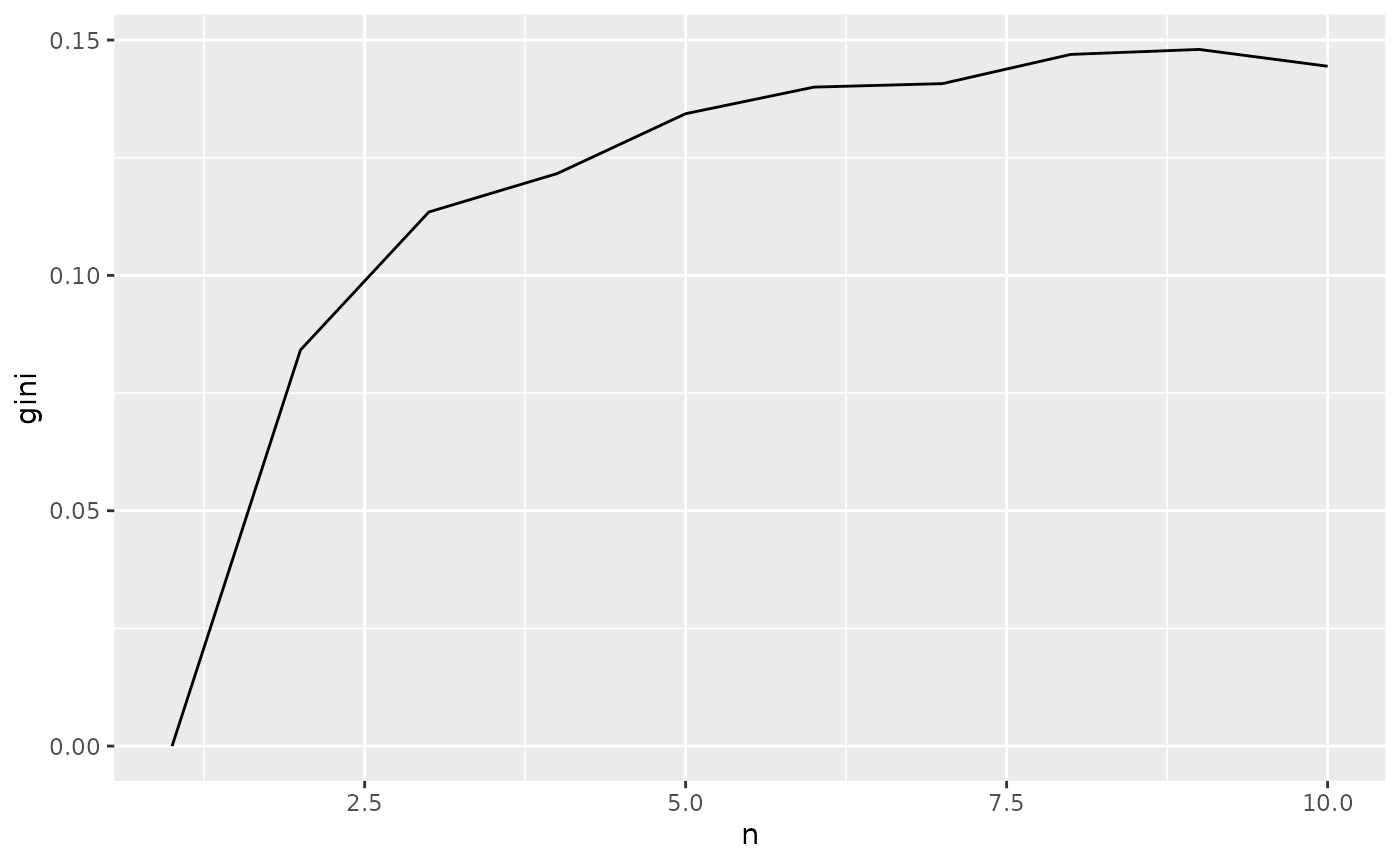
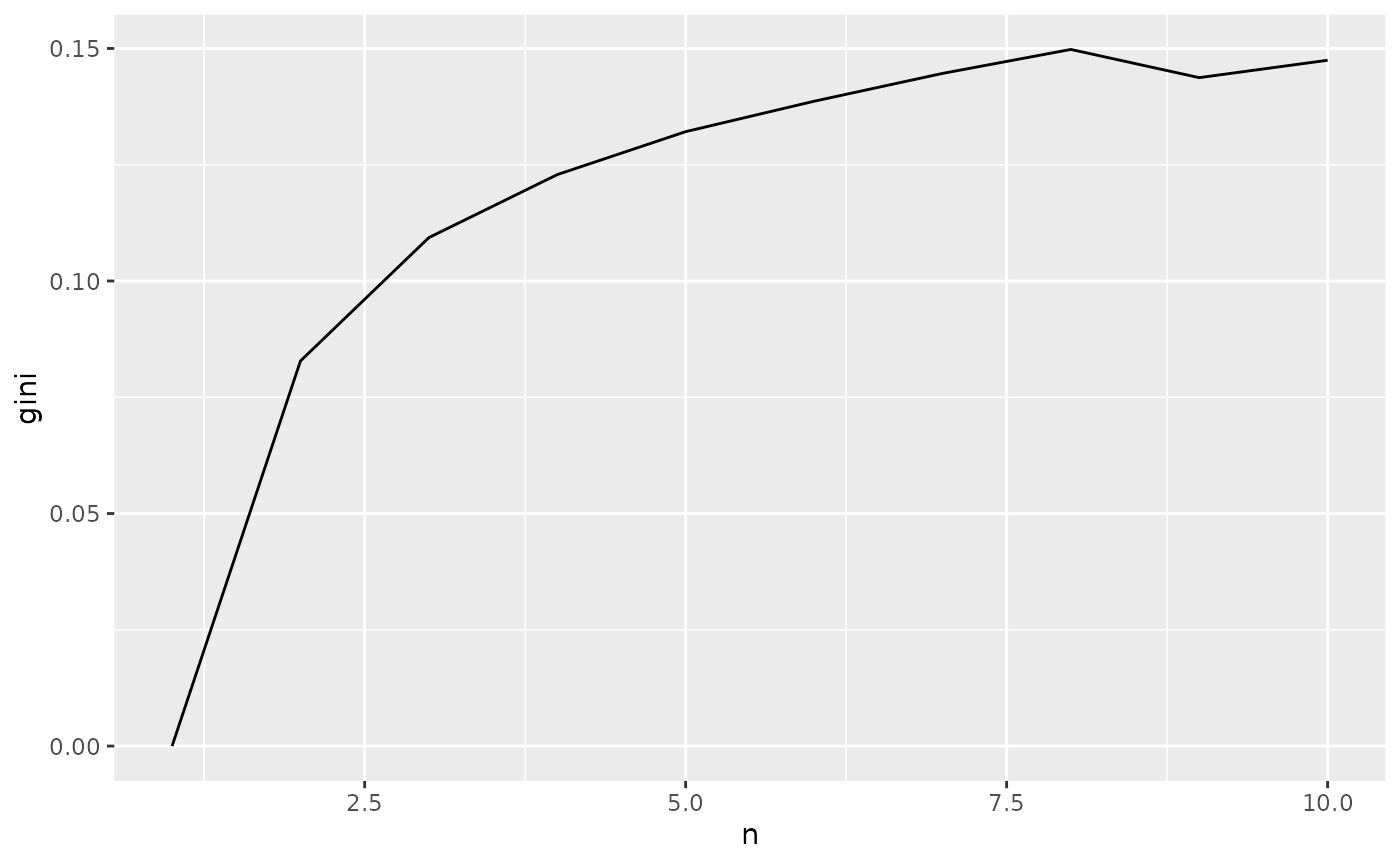
Deploying to gh-pages from @ mpadge/pkgstats-analyses@e07d422336419b5bfa9cda3566c8a8e84b8b9a2a 🚀

diff --git a/articles/pkgstats.html b/articles/pkgstats.html
@@ -26,7 +26,7 @@
     
     <a class="navbar-brand me-2" href="../index.html">pkgstatsAnalyses</a>
 
-    <small class="nav-text text-muted me-auto" data-bs-toggle="tooltip" data-bs-placement="bottom" title="">0.0.1.157</small>
+    <small class="nav-text text-muted me-auto" data-bs-toggle="tooltip" data-bs-placement="bottom" title="">0.0.1.158</small>
 
     
     <button class="navbar-toggler" type="button" data-bs-toggle="collapse" data-bs-target="#navbar" aria-controls="navbar" aria-expanded="false" aria-label="Toggle navigation">
@@ -68,7 +68,7 @@
       <img src="" class="logo" alt=""><h1>Historical Trends in R Package Structure and Interdependency on CRAN</h1>
                         <h4 data-toc-skip class="author">Mark Padgham &amp; Noam Ross</h4>
             
-            <h4 data-toc-skip class="date">2022-01-31</h4>
+            <h4 data-toc-skip class="date">2022-02-01</h4>
       
       <small class="dont-index">Source: <a href="https://github.com/mpadge/pkgstats-analyses/blob/HEAD/vignettes/pkgstats.Rmd" class="external-link"><code>vignettes/pkgstats.Rmd</code></a></small>
       <div class="d-none name"><code>pkgstats.Rmd</code></div>
@@ -395,8 +395,16 @@ Fig 8 but over package release instead of year
 <div class="section level2">
 <h2 id="discussion">Discussion<a class="anchor" aria-label="anchor" href="#discussion"></a>
 </h2>
-<p>These results reveal a number of metrics which appear to have evolved in one direction when collectively measured across all CRAN packages, yet which tend to evolve in opposing directions within the evolution of individual packages. An example is the metric of “coupling instability” which has increased markedly for all packages since around 2010 (Fig. 6B), yet which decreases in any individual package from near one on first release (due to new packages being unable to be used or depended on by other packages) to near zero after around 100 releases. Additional examples arose in proportions of calls to base R functions, which have collectively decreased over time (Fig. 6A), from over 80 to under 70%, while calls to contributed packages have collectively increased from under 1% to almost 15% in 2021. While individual packages tend to use proportionally fewer calls to base R functions as they mature, they also use proportionally fewer calls to contributed packages, and substitute both of these with increasing proportions of calls to recommended packages (Fig. 7A). Simpler examples also arise in variables like numbers of R functions per file, which have decreased consistently over CRAN as a whole (Fig. 4D), yet which increase progressively as individual packages mature.</p>
-<p>These general patterns indicate the ubiquity of a dual dynamic between CRAN becoming collectively dominated by less mature packages, and so manifesting statistic properties increasingly reflective of packages in relatively preliminary states of development, while individual packages themselves generally manifest opposing tendencies. It is not straightforward for many metrics considered here to determine whether a given observed trajectory might be a positive development for CRAN as a whole or not, yet the example of coupling instability does provide one metric with a clear understating, and for which high values are generally considered undesirable <span class="citation">(Martin 2003)</span>.</p>
+<p>These results reveal a number of metrics which appear to have evolved in one direction when collectively measured across all CRAN packages, yet which tend to evolve in opposing directions within the evolution of individual packages. An example is the metric of “coupling instability” which has increased markedly for all packages since around 2010 (Fig. 6B), yet which decreases in any individual package from near one on first release (due to new packages being unable to be used or depended on by other packages) to near zero after around 100 releases. Additional examples arose in proportions of calls to base R functions, which have collectively decreased over time (Fig. 6A), from over 80 to under 70%, while calls to contributed packages have collectively increased from under 1% to almost 15% in 2021. While individual packages tend to use proportionally fewer calls to base R functions as they mature, they also use proportionally fewer calls to contributed packages, and substitute both of these with increasing proportions of calls to recommended packages (Fig. 7A). Simpler examples also arise in variables like numbers of R functions per file, which have decreased consistently over CRAN as a whole (Fig. 4D), yet which increase progressively as individual packages mature (Fig. 5D).</p>
+<p>These general patterns indicate the ubiquity of a dual dynamic between individual packages tending to develop or evolve in one particular direction, yet CRAN as a whole collectively developing in opposing directions due to becoming increasingly dominated by less mature packages in relatively preliminary states of development. It is of course generally not straightforward for many metrics considered here to determine whether an observed trajectory might be a positive development for CRAN as a whole or not. The example of coupling instability nevertheless provides one metric with a clear understanding, and for which high values are generally considered undesirable <span class="citation">(Martin 2003)</span>. In this context at least, the ongoing development of CRAN is defined by a dynamic balance between the stabilising influence of mature packages, and converse and potentially destabilising influences of increasing numbers of recently contributed packages.</p>
+<p>However, even balances between variables like these which are relatively easy to interpret must be considered carefully. For example, the preceding results made several comparisons through quantifying relative rates of change of such opposing tendencies. Direct comparisons presume more recent packages to have equal weight or influence on the overall system dynamic as do more mature packages. It may be more appropriate to implement some form of weighted analyses, for example, through weighting the contributions of individual packages by numbers of dependent packages. Although such analyses lie beyond the scope of the present work, the evident tensions between individual and collective dynamics represent a key finding of the present work, and one which could and should be extended in future analyses through considering such additional influences as weighted contributions of individual packages to the collective development of software systems.</p>
+<div class="section level3">
+<h3 id="quantifying-temporal-development-of-software-systems">Quantifying temporal development of software systems<a class="anchor" aria-label="anchor" href="#quantifying-temporal-development-of-software-systems"></a>
+</h3>
+<p>The preceding analyses contrasted and compared results derived from two distinct ways of quantifying “annual” statistics. The “snapshot” values considered the collective properties of the system as it existed in each year, including latest versions of all packages regardless of when those packages were last updated. In contrast, “annual” values only considered software actively uploaded in each year. As stated at the outset, snapshot values may be generally presumed to reflect exponentially-smoothed versions of annual values, and so these two approaches to aggregating annual values ought to qualitatively agree, with snapshots merely being an effectively smoothed version of annual values. Such an assertion can nevertheless never be more than a generalisation, and the particular statistical properties of a system may manifest different patterns.</p>
+<p>Such contrasting patterns arose in the annual developments of Gini coefficients of Fig. 6C, which presented coefficients both for inequality between numbers of package dependencies, and numbers of individual functions from those dependencies. Calculating annual values only from software uploaded in each year (“annual” values; solid lines in that figure) yielded Gini coefficients which have progressively decreased over the last two decades, while using “snapshot” values produced opposing trajectories of increasing Gini coefficients (dashed lines).</p>
+<p><span class="citation">Decan, Mens, and Grosjean (2019)</span> previously claimed that Gini coefficients for all seven package distribution systems they studied had increased over time. These coefficients measure relative inequality in the distributions of numbers of package imports, with larger values reflecting systems with greater disparities between packages in numbers of imports. While <span class="citation">Decan, Mens, and Grosjean (2019)</span> did not explicitly describe how they defined their annual figures, all data were derived from the “meta-platform” <code>libraries.io</code>, which collates software from several distribution systems and computer languages. Use of data from this platform would only enable “annual” rather than “snapshot” values to be calculated. The present results then appear to contradict theirs, through revealing annual Gini coefficients to have decreased over the preceding two decades, rather than increasing as they concluded (albeit in their case over a more narrow temporal range of 2012-2017). Quantifying annual values as snapshots of the entire system, including latest versions from all prior years, led to opposing trajectories of increasing Gini coefficients. These conflicting patterns prevent any firm conclusions regarding temporal evolution of Gini coefficients, but do reveal the critical importance of precisely specifying the methods used to aggregate annual values.</p>
+</div>
 <div class="section level3">
 <h3 id="dependency-networks">Dependency Networks<a class="anchor" aria-label="anchor" href="#dependency-networks"></a>
 </h3>

diff --git a/authors.html b/authors.html
@@ -10,7 +10,7 @@
     
     <a class="navbar-brand me-2" href="index.html">pkgstatsAnalyses</a>
 
-    <small class="nav-text text-muted me-auto" data-bs-toggle="tooltip" data-bs-placement="bottom" title="">0.0.1.157</small>
+    <small class="nav-text text-muted me-auto" data-bs-toggle="tooltip" data-bs-placement="bottom" title="">0.0.1.158</small>
 
     
     <button class="navbar-toggler" type="button" data-bs-toggle="collapse" data-bs-target="#navbar" aria-controls="navbar" aria-expanded="false" aria-label="Toggle navigation">
@@ -58,13 +58,13 @@
 
       <p>Padgham M (2022).
 <em>pkgstatsAnalyses: Analyses of 'pkgstats' Results for all CRAN Packages</em>.
-R package version 0.0.1.157, <a href="https://github.com/mpadge/pkgstats-analyses" class="external-link">https://github.com/mpadge/pkgstats-analyses</a>. 
+R package version 0.0.1.158, <a href="https://github.com/mpadge/pkgstats-analyses" class="external-link">https://github.com/mpadge/pkgstats-analyses</a>. 
 </p>
       <pre>@Manual{,
   title = {pkgstatsAnalyses: Analyses of 'pkgstats' Results for all CRAN Packages},
   author = {Mark Padgham},
   year = {2022},
-  note = {R package version 0.0.1.157},
+  note = {R package version 0.0.1.158},
   url = {https://github.com/mpadge/pkgstats-analyses},
 }</pre>
     </div>

diff --git a/reference/collate_temp_pypi_files.html b/reference/collate_temp_pypi_files.html
@@ -14,7 +14,7 @@ all_pypi."><!-- mathjax --><script src="https://cdnjs.cloudflare.com/ajax/libs/m
     
     <a class="navbar-brand me-2" href="../index.html">pkgstatsAnalyses</a>
 
-    <small class="nav-text text-muted me-auto" data-bs-toggle="tooltip" data-bs-placement="bottom" title="">0.0.1.157</small>
+    <small class="nav-text text-muted me-auto" data-bs-toggle="tooltip" data-bs-placement="bottom" title="">0.0.1.158</small>
 
     
     <button class="navbar-toggler" type="button" data-bs-toggle="collapse" data-bs-target="#navbar" aria-controls="navbar" aria-expanded="false" aria-label="Toggle navigation">

diff --git a/reference/coupling_dependencies.html b/reference/coupling_dependencies.html
@@ -14,7 +14,7 @@ and to columns for each package."><!-- mathjax --><script src="https://cdnjs.clo
     
     <a class="navbar-brand me-2" href="../index.html">pkgstatsAnalyses</a>
 
-    <small class="nav-text text-muted me-auto" data-bs-toggle="tooltip" data-bs-placement="bottom" title="">0.0.1.157</small>
+    <small class="nav-text text-muted me-auto" data-bs-toggle="tooltip" data-bs-placement="bottom" title="">0.0.1.158</small>
 
     
     <button class="navbar-toggler" type="button" data-bs-toggle="collapse" data-bs-target="#navbar" aria-controls="navbar" aria-expanded="false" aria-label="Toggle navigation">

diff --git a/reference/couplings_releases.html b/reference/couplings_releases.html
@@ -14,7 +14,7 @@ takes around 15 minutes to calculate, so is not worth doing in parallel here."><
     
     <a class="navbar-brand me-2" href="../index.html">pkgstatsAnalyses</a>
 
-    <small class="nav-text text-muted me-auto" data-bs-toggle="tooltip" data-bs-placement="bottom" title="">0.0.1.157</small>
+    <small class="nav-text text-muted me-auto" data-bs-toggle="tooltip" data-bs-placement="bottom" title="">0.0.1.158</small>
 
     
     <button class="navbar-toggler" type="button" data-bs-toggle="collapse" data-bs-target="#navbar" aria-controls="navbar" aria-expanded="false" aria-label="Toggle navigation">

diff --git a/reference/dependencies.html b/reference/dependencies.html
@@ -13,7 +13,7 @@ data.'><!-- mathjax --><script src="https://cdnjs.cloudflare.com/ajax/libs/mathj
     
     <a class="navbar-brand me-2" href="../index.html">pkgstatsAnalyses</a>
 
-    <small class="nav-text text-muted me-auto" data-bs-toggle="tooltip" data-bs-placement="bottom" title="">0.0.1.157</small>
+    <small class="nav-text text-muted me-auto" data-bs-toggle="tooltip" data-bs-placement="bottom" title="">0.0.1.158</small>
 
     
     <button class="navbar-toggler" type="button" data-bs-toggle="collapse" data-bs-target="#navbar" aria-controls="navbar" aria-expanded="false" aria-label="Toggle navigation">

diff --git a/reference/transform_pkgstats_data.html b/reference/transform_pkgstats_data.html
@@ -12,7 +12,7 @@ many of these to relative proportions."><!-- mathjax --><script src="https://cdn
     
     <a class="navbar-brand me-2" href="../index.html">pkgstatsAnalyses</a>
 
-    <small class="nav-text text-muted me-auto" data-bs-toggle="tooltip" data-bs-placement="bottom" title="">0.0.1.157</small>
+    <small class="nav-text text-muted me-auto" data-bs-toggle="tooltip" data-bs-placement="bottom" title="">0.0.1.158</small>
 
     
     <button class="navbar-toggler" type="button" data-bs-toggle="collapse" data-bs-target="#navbar" aria-controls="navbar" aria-expanded="false" aria-label="Toggle navigation">

diff --git a/404.html b/404.html
@@ -24,7 +24,7 @@
     
     <a class="navbar-brand me-2" href="https://mpadge.github.io/pkgstats-analyses/index.html">pkgstatsAnalyses</a>
 
-    <small class="nav-text text-muted me-auto" data-bs-toggle="tooltip" data-bs-placement="bottom" title="">0.0.1.157</small>
+    <small class="nav-text text-muted me-auto" data-bs-toggle="tooltip" data-bs-placement="bottom" title="">0.0.1.158</small>
 
     
     <button class="navbar-toggler" type="button" data-bs-toggle="collapse" data-bs-target="#navbar" aria-controls="navbar" aria-expanded="false" aria-label="Toggle navigation">

diff --git a/articles/figures/fig01.html b/articles/figures/fig01.html
@@ -26,7 +26,7 @@
     
     <a class="navbar-brand me-2" href="../../index.html">pkgstatsAnalyses</a>
 
-    <small class="nav-text text-muted me-auto" data-bs-toggle="tooltip" data-bs-placement="bottom" title="">0.0.1.157</small>
+    <small class="nav-text text-muted me-auto" data-bs-toggle="tooltip" data-bs-placement="bottom" title="">0.0.1.158</small>
 
     
     <button class="navbar-toggler" type="button" data-bs-toggle="collapse" data-bs-target="#navbar" aria-controls="navbar" aria-expanded="false" aria-label="Toggle navigation">

diff --git a/articles/figures/fig02.html b/articles/figures/fig02.html
@@ -26,7 +26,7 @@
     
     <a class="navbar-brand me-2" href="../../index.html">pkgstatsAnalyses</a>
 
-    <small class="nav-text text-muted me-auto" data-bs-toggle="tooltip" data-bs-placement="bottom" title="">0.0.1.157</small>
+    <small class="nav-text text-muted me-auto" data-bs-toggle="tooltip" data-bs-placement="bottom" title="">0.0.1.158</small>
 
     
     <button class="navbar-toggler" type="button" data-bs-toggle="collapse" data-bs-target="#navbar" aria-controls="navbar" aria-expanded="false" aria-label="Toggle navigation">

diff --git a/articles/figures/fig03.html b/articles/figures/fig03.html
@@ -26,7 +26,7 @@
     
     <a class="navbar-brand me-2" href="../../index.html">pkgstatsAnalyses</a>
 
-    <small class="nav-text text-muted me-auto" data-bs-toggle="tooltip" data-bs-placement="bottom" title="">0.0.1.157</small>
+    <small class="nav-text text-muted me-auto" data-bs-toggle="tooltip" data-bs-placement="bottom" title="">0.0.1.158</small>
 
     
     <button class="navbar-toggler" type="button" data-bs-toggle="collapse" data-bs-target="#navbar" aria-controls="navbar" aria-expanded="false" aria-label="Toggle navigation">

diff --git a/articles/figures/fig04.html b/articles/figures/fig04.html
@@ -26,7 +26,7 @@
     
     <a class="navbar-brand me-2" href="../../index.html">pkgstatsAnalyses</a>
 
-    <small class="nav-text text-muted me-auto" data-bs-toggle="tooltip" data-bs-placement="bottom" title="">0.0.1.157</small>
+    <small class="nav-text text-muted me-auto" data-bs-toggle="tooltip" data-bs-placement="bottom" title="">0.0.1.158</small>
 
     
     <button class="navbar-toggler" type="button" data-bs-toggle="collapse" data-bs-target="#navbar" aria-controls="navbar" aria-expanded="false" aria-label="Toggle navigation">
